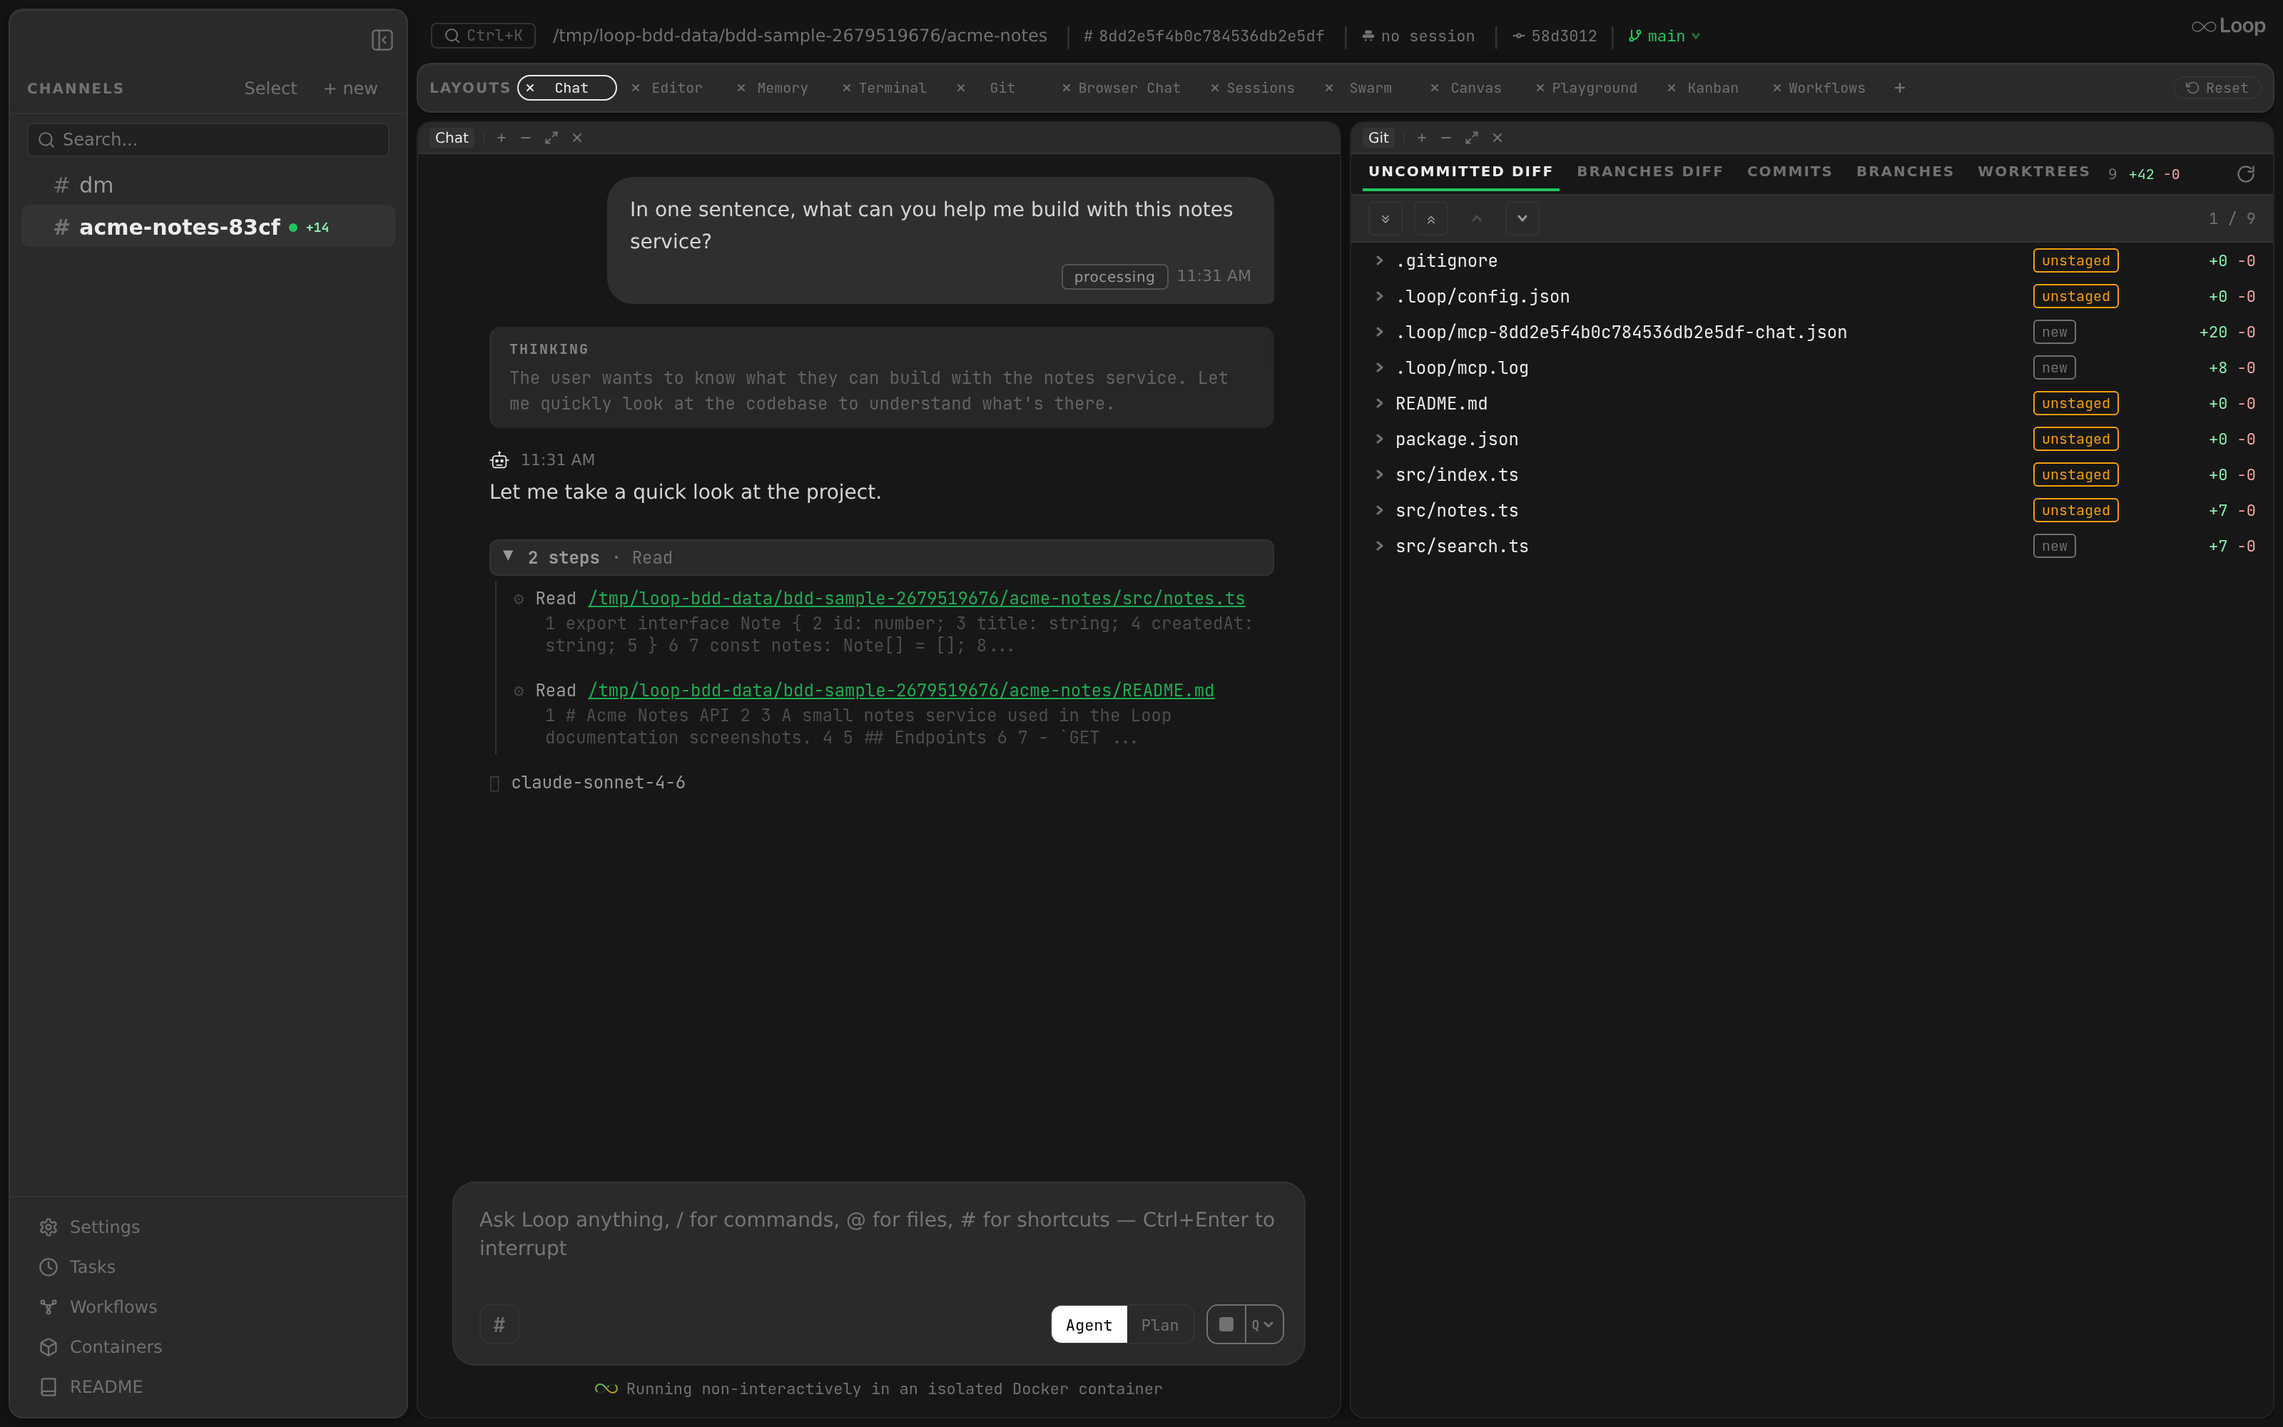
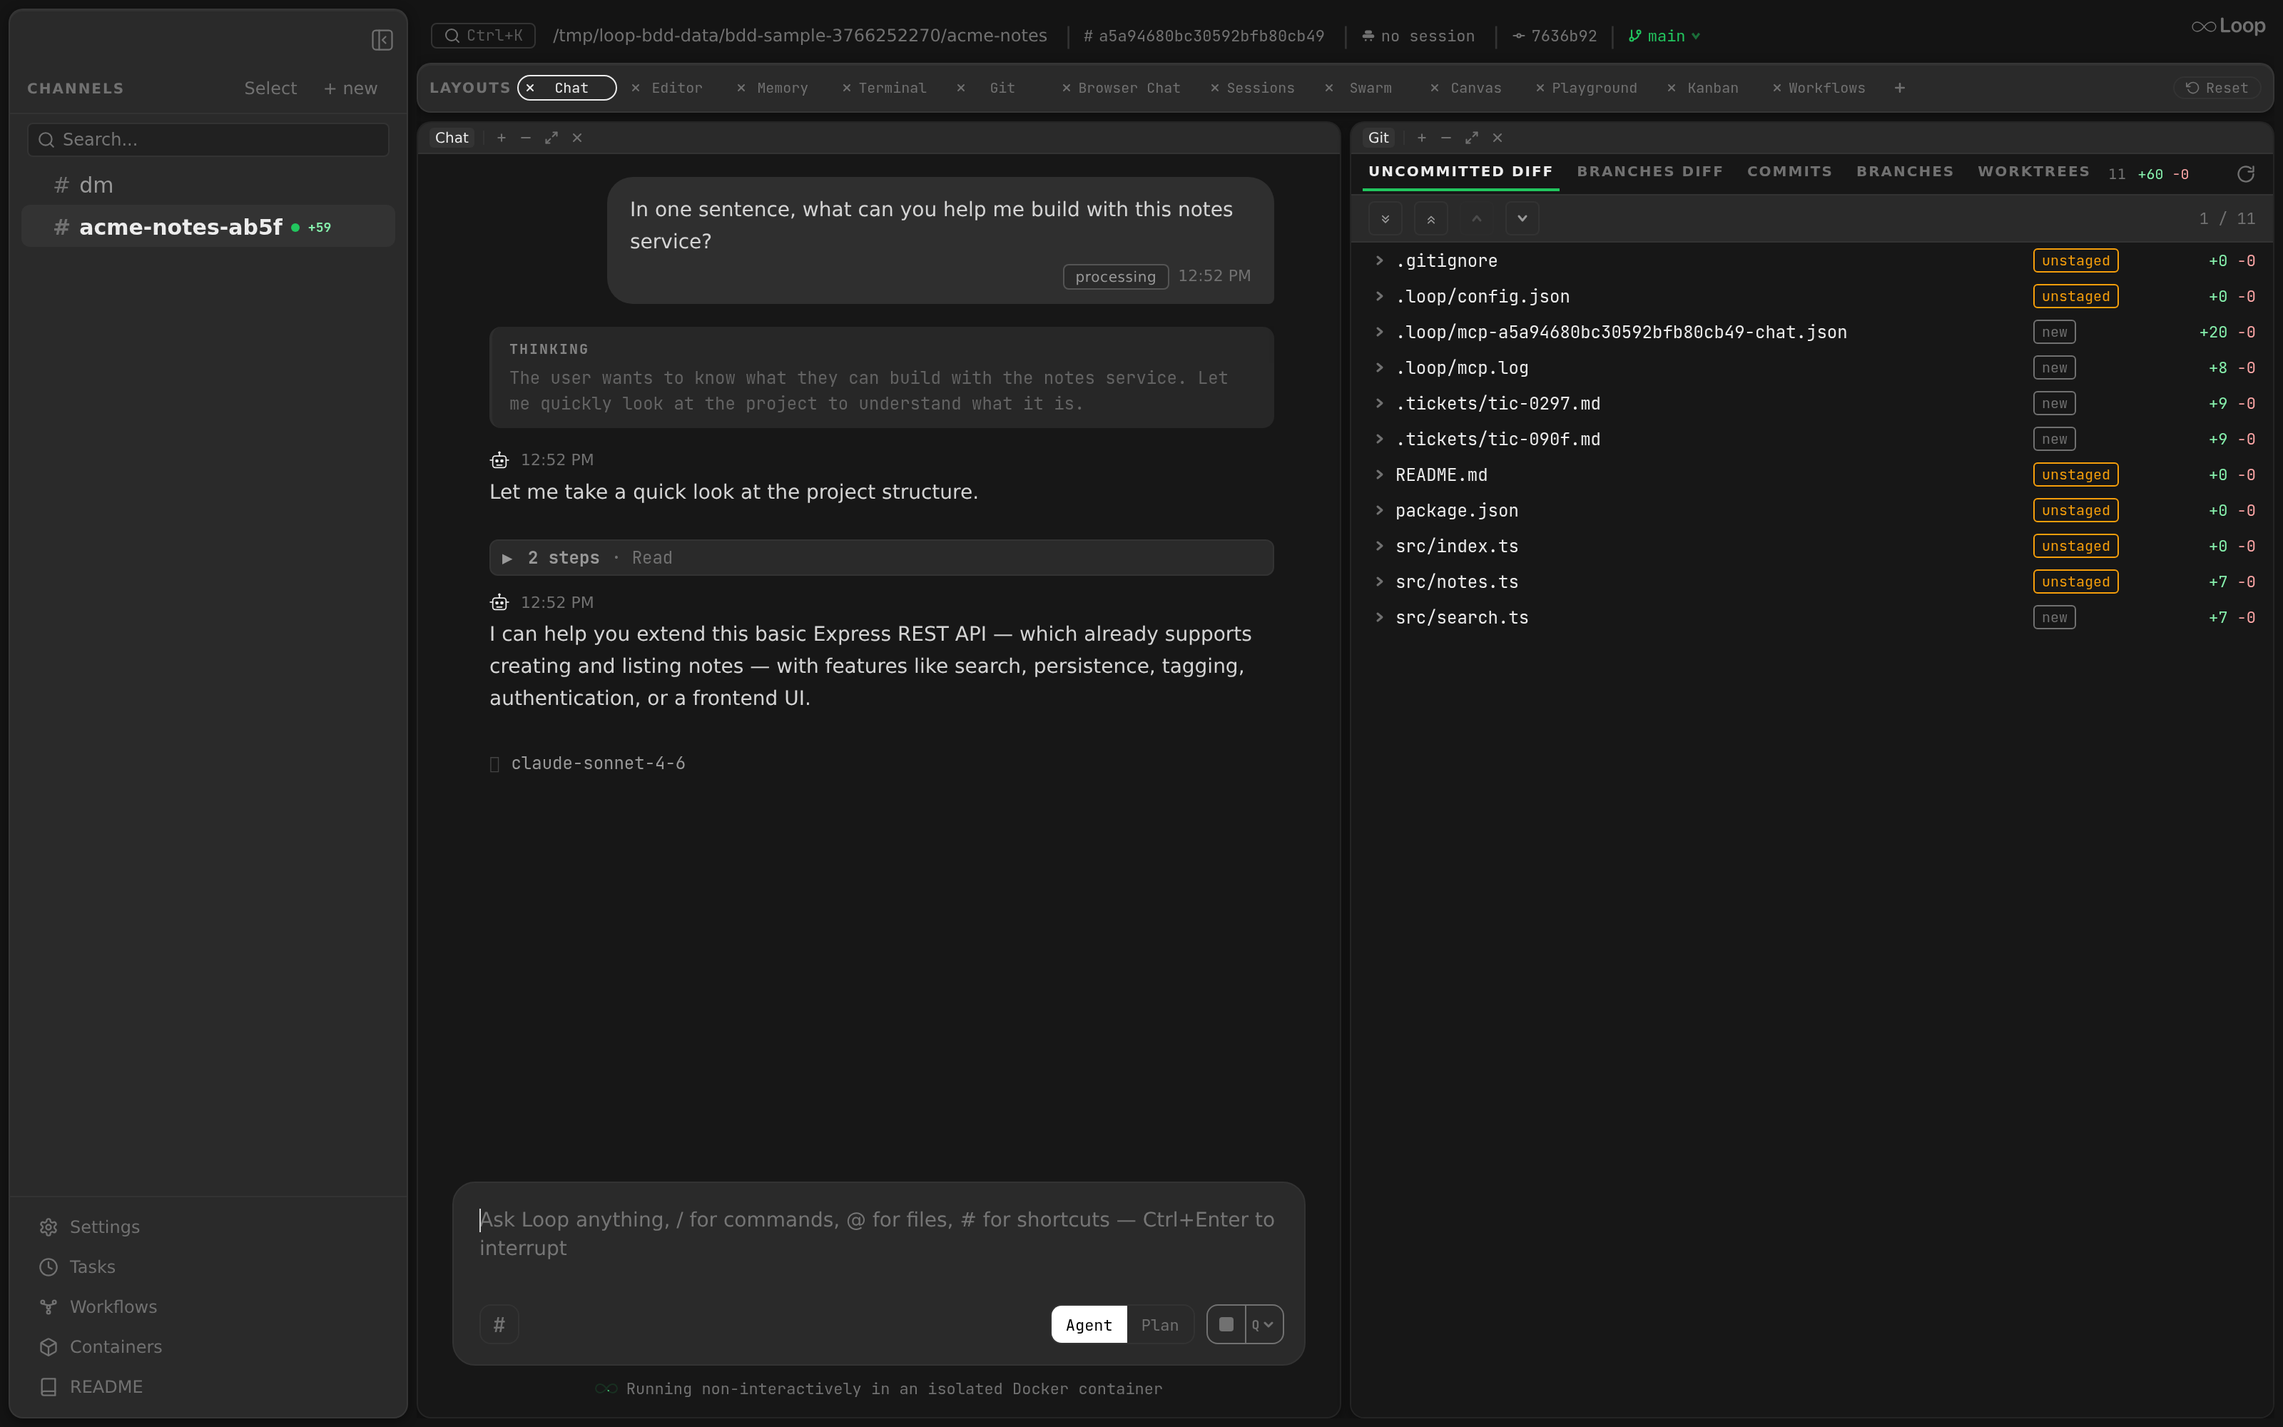
docs: expand walkthrough into a captioned, paced guided tour of every panel
One continuous recording now tours every layout panel as a guided demo: a
fading "∞ Loop" title card opens/closes it, each panel is held for a beat and
then explained by an on-screen caption, and the MP4 is muxed via ffmpeg's
concat demuxer so the wall-clock pauses are preserved as real pacing.

- Seed the sample acme-notes project with Kanban tickets, a scheduled task, and
  a prompt + bash shortcut so those panels show real content.
- Run a prompt shortcut live (# picker -> select -> the agent answers).
- Capture stills for editor, kanban, tasks, and settings; embed each under its
  docs section (editor.md, kanban.md, scheduling.md, settings.md, chat.md).
- Bump docs-capture timeouts for the longer journey.

diff --git a/test/component/bdd_recording_test.go b/test/component/bdd_recording_test.go
@@ -3,7 +3,6 @@
 package component
 
 import (
-	"encoding/base64"
 	"fmt"
 	"os"
 	"os/exec"
@@ -12,25 +11,31 @@ import (
 	"sync"
 	"time"
 
+	"encoding/base64"
+
 	"github.com/chromedp/cdproto/page"
 	"github.com/chromedp/chromedp"
 )
 
 // The end-to-end journey is recorded as one screencast and muxed into an MP4 by
-// ffmpeg (baked into the test-runner image). Capturing every repaint is fine for
-// H.264, but throttle a little to bound memory and keep the input rate sane.
+// ffmpeg (baked into the test-runner image). Throttle a little to bound memory
+// and keep the input rate sane; per-frame timestamps are kept so playback
+// preserves real-time pacing (holds/captions become real on-screen pauses).
 const (
-	recordingMinFrameGap = 80 * time.Millisecond
-	recordingMaxFrames   = 1500
+	recordingMinFrameGap = 40 * time.Millisecond
+	recordingMaxFrames   = 3000
+	// Clamp per-frame display time so a long idle gap doesn't freeze the video.
+	recordingMinHold = 0.04
+	recordingMaxHold = 5.0
 )
 
 // screencastRecorder buffers CDP screencast frames for a scenario. Frames
 // arrive on chromedp's event goroutine, so access is guarded by mu.
 type screencastRecorder struct {
-	mu        sync.Mutex
-	frames    [][]byte  // raw JPEG bytes, in capture order
-	startedAt time.Time // wall-clock start (for deriving playback fps)
-	lastKept  time.Time // wall-clock time the last frame was retained (throttle)
+	mu       sync.Mutex
+	frames   [][]byte    // raw JPEG bytes, in capture order
+	times    []time.Time // wall-clock capture time per kept frame (for real-time pacing)
+	lastKept time.Time   // wall-clock time the last frame was retained (throttle)
 }
 
 // startRecording subscribes to CDP screencast frames and starts the stream.
@@ -39,7 +44,7 @@ func (tc *TestContext) startRecording() error {
 	if os.Getenv("LOOP_DOCS_CAPTURE") == "" {
 		return nil
 	}
-	rec := &screencastRecorder{startedAt: time.Now()}
+	rec := &screencastRecorder{}
 	tc.chromeTab.rec = rec
 	ctx := tc.chromeTab.ctx
 
@@ -68,6 +73,7 @@ func (tc *TestContext) startRecording() error {
 		}
 		rec.mu.Lock()
 		rec.frames = append(rec.frames, data)
+		rec.times = append(rec.times, now)
 		rec.mu.Unlock()
 	})
 
@@ -96,8 +102,7 @@ func (tc *TestContext) stopRecording(name string) error {
 	_ = chromedp.Run(tc.chromeTab.ctx, page.StopScreencast())
 
 	rec.mu.Lock()
-	frames := rec.frames
-	elapsed := time.Since(rec.startedAt)
+	frames, times := rec.frames, rec.times
 	rec.mu.Unlock()
 	if len(frames) == 0 {
 		return fmt.Errorf("recording %q captured no frames", name)
@@ -117,40 +122,57 @@ func (tc *TestContext) stopRecording(name string) error {
 	if err := os.MkdirAll(filepath.Dir(outPath), 0o755); err != nil {
 		return err
 	}
-	return encodeMP4(frames, elapsed, outPath)
+	return encodeMP4(frames, times, outPath)
 }
 
 // encodeMP4 writes the JPEG frames to a temp dir and muxes them into an H.264
-// MP4 via ffmpeg. The input frame rate is derived from the real capture duration
-// so playback runs at roughly wall-clock speed.
-func encodeMP4(frames [][]byte, elapsed time.Duration, outPath string) error {
+// MP4 via ffmpeg's concat demuxer. Each frame's display duration is its real
+// wall-clock gap to the next frame (clamped), so on-screen pauses and caption
+// title-cards hold for their actual time; a final fps filter resamples to a
+// universally-playable constant 30fps (H.264 makes the duplicated hold frames
+// nearly free).
+func encodeMP4(frames [][]byte, times []time.Time, outPath string) error {
 	dir, err := os.MkdirTemp("", "loop-journey-frames-")
 	if err != nil {
 		return err
 	}
 	defer os.RemoveAll(dir)
+
+	var list strings.Builder
 	for i, raw := range frames {
-		if err := os.WriteFile(filepath.Join(dir, fmt.Sprintf("f%05d.jpg", i)), raw, 0o644); err != nil {
+		name := fmt.Sprintf("f%05d.jpg", i)
+		if err := os.WriteFile(filepath.Join(dir, name), raw, 0o644); err != nil {
 			return err
 		}
-	}
-
-	fps := 10.0
-	if elapsed > 0 {
-		if r := float64(len(frames)) / elapsed.Seconds(); r >= 1 {
-			fps = r
+		hold := recordingMaxHold
+		if i+1 < len(times) {
+			hold = times[i+1].Sub(times[i]).Seconds()
+		} else {
+			hold = 2.0 // final frame lingers briefly
 		}
+		if hold < recordingMinHold {
+			hold = recordingMinHold
+		}
+		if hold > recordingMaxHold {
+			hold = recordingMaxHold
+		}
+		fmt.Fprintf(&list, "file '%s'\nduration %.3f\n", name, hold)
 	}
-	if fps > 30 {
-		fps = 30
+	// The concat demuxer ignores the last entry's duration unless the file is
+	// repeated once more — append it so the final frame honors its hold.
+	if len(frames) > 0 {
+		fmt.Fprintf(&list, "file '%s'\n", fmt.Sprintf("f%05d.jpg", len(frames)-1))
+	}
+	listPath := filepath.Join(dir, "frames.txt")
+	if err := os.WriteFile(listPath, []byte(list.String()), 0o644); err != nil {
+		return err
 	}
 
 	cmd := exec.Command("ffmpeg", "-y",
-		"-framerate", fmt.Sprintf("%.3f", fps),
-		"-i", filepath.Join(dir, "f%05d.jpg"),
+		"-f", "concat", "-safe", "0", "-i", listPath,
+		"-vf", "scale=trunc(iw/2)*2:trunc(ih/2)*2,fps=30", // even dims + CFR for compatibility
 		"-c:v", "libx264",
 		"-pix_fmt", "yuv420p",
-		"-vf", "scale=trunc(iw/2)*2:trunc(ih/2)*2", // libx264 needs even dimensions
 		"-movflags", "+faststart",
 		outPath,
 	)

diff --git a/test/component/bdd_steps_frontend_test.go b/test/component/bdd_steps_frontend_test.go
@@ -225,6 +225,9 @@ func registerFrontendSteps(ctx *godog.ScenarioContext, tc *TestContext) {
 	ctx.Step(`^I capture screenshot "([^"]*)"$`, tc.captureDocScreenshot)
 	ctx.Step(`^I start recording$`, tc.startRecording)
 	ctx.Step(`^I stop recording "([^"]*)"$`, tc.stopRecording)
+	ctx.Step(`^I show caption "([^"]*)"$`, tc.showCaption)
+	ctx.Step(`^I show the Loop title card$`, tc.showLoopTitleCard)
+	ctx.Step(`^I hide caption$`, tc.hideCaption)
 
 	// Debugging
 	ctx.Step(`^I take a screenshot$`, tc.takeScreenshot)
@@ -252,10 +255,10 @@ func (tc *TestContext) ensureChromeTab() error {
 	// but short enough that a hung agent fails fast rather than after ~10m.
 	scenarioTimeout := 120 * time.Second
 	if os.Getenv("LOOP_DOCS_CAPTURE") != "" {
-		// The docs journey is one long scenario (live agent reply + layout
-		// changes + workflows panel) — give it room but still fail a hang well
-		// inside the go-test timeout.
-		scenarioTimeout = 60 * time.Second
+		// The docs journey is one long scenario (two live agent replies + a
+		// captioned, deliberately-slow tour of every panel) — give it room but
+		// still fail a hang inside the go-test timeout.
+		scenarioTimeout = 300 * time.Second
 	}
 	timeoutCtx, timeoutCancel := context.WithTimeout(parentCtx, scenarioTimeout)
 	ctx, cancel := chromedp.NewContext(timeoutCtx)
@@ -1020,6 +1023,87 @@ func (tc *TestContext) captureDocScreenshot(name string) error {
 		return err
 	}
 	return os.WriteFile(path, buf, 0o644)
+}
+
+// showCaption injects a full-screen title-card overlay so the recorded video has
+// an on-screen explanation between panels. No-op outside LOOP_DOCS_CAPTURE.
+// Captions must be hidden before a screenshot so they don't obscure the panel.
+func (tc *TestContext) showCaption(text string) error {
+	if os.Getenv("LOOP_DOCS_CAPTURE") == "" {
+		return nil
+	}
+	js := fmt.Sprintf(`(function(){
+		var id='loop-docs-caption';
+		var el=document.getElementById(id);
+		if(!el){el=document.createElement('div');el.id=id;document.body.appendChild(el);}
+		el.style.cssText='position:fixed;inset:0;z-index:2147483647;display:flex;'+
+			'align-items:center;justify-content:center;text-align:center;padding:0 10%%;'+
+			'background:rgba(8,10,14,0.92);color:#e8eaed;'+
+			'font:600 44px/1.45 -apple-system,BlinkMacSystemFont,"Segoe UI",sans-serif;'+
+			'-webkit-font-smoothing:antialiased';
+		el.textContent=%q;
+		return 'ok';
+	})()`, text)
+	var res string
+	return chromedp.Run(tc.chromeTab.ctx, chromedp.Evaluate(js, &res))
+}
+
+// showLoopTitleCard shows a branded "∞ Loop" intro/outro card that fades in,
+// holds, and fades out (the journey waits ~3.4s for the animation to be
+// recorded, then hides it). No-op outside LOOP_DOCS_CAPTURE.
+func (tc *TestContext) showLoopTitleCard() error {
+	if os.Getenv("LOOP_DOCS_CAPTURE") == "" {
+		return nil
+	}
+	ctx := tc.chromeTab.ctx
+	inject := `(function(){
+		var id='loop-docs-caption';
+		var el=document.getElementById(id);
+		if(!el){el=document.createElement('div');el.id=id;document.body.appendChild(el);}
+		el.style.cssText='position:fixed;inset:0;z-index:2147483647;display:flex;flex-direction:column;'+
+			'align-items:center;justify-content:center;background:#06080c;color:#e8eaed;opacity:0;'+
+			'font-family:-apple-system,BlinkMacSystemFont,"Segoe UI",sans-serif';
+		el.innerHTML='<div style="font-size:160px;line-height:0.9;font-weight:200">∞</div>'+
+			'<div style="font-size:56px;font-weight:600;letter-spacing:4px">Loop</div>';
+		return 'ok';
+	})()`
+	var res string
+	if err := chromedp.Run(ctx, chromedp.Evaluate(inject, &res)); err != nil {
+		return err
+	}
+	// Drive the fade in/hold/out from JS rather than a CSS animation: headless
+	// Chrome throttles CSS animations on otherwise-static pages, leaving the card
+	// stuck invisible. Stepping opacity from JS both animates it and forces the
+	// repaints the screencast records.
+	const total = 4.5
+	start := time.Now()
+	for {
+		elapsed := time.Since(start).Seconds()
+		if elapsed >= total {
+			break
+		}
+		op := 1.0
+		switch {
+		case elapsed < 0.6:
+			op = elapsed / 0.6
+		case elapsed > total-0.8:
+			op = (total - elapsed) / 0.8
+		}
+		step := fmt.Sprintf(`(function(){var e=document.getElementById('loop-docs-caption');if(e)e.style.opacity=%q;return 'ok';})()`, fmt.Sprintf("%.3f", op))
+		_ = chromedp.Run(ctx, chromedp.Evaluate(step, &res))
+		time.Sleep(120 * time.Millisecond)
+	}
+	return nil
+}
+
+// hideCaption removes the title-card overlay injected by showCaption.
+func (tc *TestContext) hideCaption() error {
+	if os.Getenv("LOOP_DOCS_CAPTURE") == "" {
+		return nil
+	}
+	js := `(function(){var el=document.getElementById('loop-docs-caption');if(el)el.remove();return 'ok';})()`
+	var res string
+	return chromedp.Run(tc.chromeTab.ctx, chromedp.Evaluate(js, &res))
 }
 
 // dumpPaneLeaves prints the pane-header-slot element ids that are currently

diff --git a/test/component/bdd_steps_backend_test.go b/test/component/bdd_steps_backend_test.go
@@ -508,6 +508,34 @@ export function searchNotes(query: string): Note[] {
 	id, _ := tc.LastJSON["channel_id"].(string)
 	sampleProject.channelID = id
 	sampleProject.dir = dir
+
+	// Seed Kanban tickets and a scheduled task so those panels show real content
+	// in the docs walkthrough (best-effort; the channel works without them).
+	for _, t := range []struct{ title, kind string }{
+		{"Add note search endpoint", "feature"},
+		{"Fix pagination off-by-one", "bug"},
+	} {
+		tb, _ := json.Marshal(map[string]any{"dir": dir, "title": t.title, "type": t.kind})
+		_ = tc.doRequest(http.MethodPost, "/api/tickets", string(tb))
+	}
+	taskBody, _ := json.Marshal(map[string]any{
+		"channel_id": id, "prompt": "Summarise the open notes each morning",
+		"schedule": "0 9 * * *", "type": "cron",
+	})
+	_ = tc.doRequest(http.MethodPost, "/api/tasks", string(taskBody))
+
+	// Seed a prompt shortcut (chat # picker) and a bash shortcut (Docker Shell
+	// $ picker) so those affordances have content in the docs walkthrough.
+	psBody, _ := json.Marshal(map[string]any{
+		"action": "add", "name": "review-diff", "description": "Review the current diff",
+		"prompt": "Review the uncommitted changes and summarise risks in 3 bullets.",
+	})
+	_ = tc.doRequest(http.MethodPost, "/api/shortcuts", string(psBody))
+	bsBody, _ := json.Marshal(map[string]any{
+		"action": "add", "name": "run-tests", "description": "Run the test suite",
+		"command": "npm test",
+	})
+	_ = tc.doRequest(http.MethodPost, "/api/bash-shortcuts", string(bsBody))
 	return nil
 }
 

diff --git a/docs/settings.md b/docs/settings.md
@@ -9,6 +9,8 @@ Related docs: [Desktop App](desktop-app.md) | [Sidebar](sidebar.md) | [Editor](e
 
 ## Settings Panel
 
+![The Settings panel overlay with the section nav and the Workflows config form](static/images/features/settings-panel.png)
+
 The Settings panel (`src/components/shared/Settings.tsx`) opens as a full-width overlay that replaces the workspace layout. It can be opened from:
 - Sidebar footer "Settings" button
 - macOS app menu "Settings..." item (`Cmd+,`)

diff --git a/docs/chat.md b/docs/chat.md
@@ -355,6 +355,8 @@ Accepting a command fills the textarea with `/loop <command> ` (with trailing sp
 
 ## Prompt Shortcuts
 
+![The chat prompt-shortcut picker opened by typing #](static/images/features/chat-shortcut.png)
+
 Typing `#` in the chat input triggers a shortcut picker. Shortcuts are defined in the `prompt_shortcuts` config array (global or per-project). See [Configuration: Prompt Shortcuts](configuration.md#prompt-shortcuts).
 
 ### Trigger Logic

diff --git a/docs/kanban.md b/docs/kanban.md
@@ -9,6 +9,8 @@ The Kanban panel provides a visual ticket board for managing work with the `tk` 
 
 ## Overview
 
+![The Kanban board with Open, In Progress, and Closed columns](static/images/features/kanban-board.png)
+
 The panel displays three status columns — **Open**, **In Progress**, and **Closed** — each showing ticket cards sorted by priority. Tickets flow left to right as work progresses.
 
 ```

diff --git a/docs/scheduling.md b/docs/scheduling.md
@@ -249,6 +249,8 @@ The worktree checkbox in the Tasks panel is only shown when:
 
 ## Tasks Panel
 
+![The Tasks panel listing a scheduled cron task with its next-run time](static/images/features/tasks-panel.png)
+
 The Tasks panel (`tasks` panel type, singleton) provides a GUI for managing scheduled tasks within a channel. It can be added to any layout from the panel menu.
 
 ### Layout

diff --git a/docs/editor.md b/docs/editor.md
@@ -76,6 +76,8 @@ Files with unrecognized extensions are opened without syntax highlighting.
 
 ## File Tree Sidebar
 
+![The Editor layout: file tree, code editor, host shell, and chat side by side](static/images/features/editor.png)
+
 ### Layout
 
 The sidebar occupies the left side of the editor panel with:
